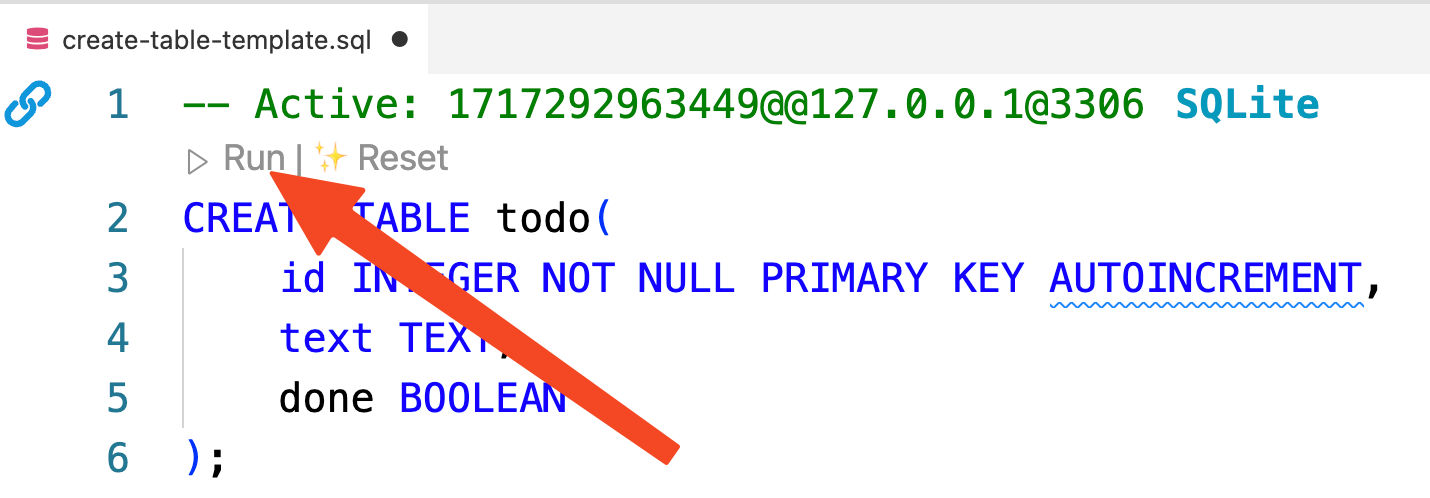
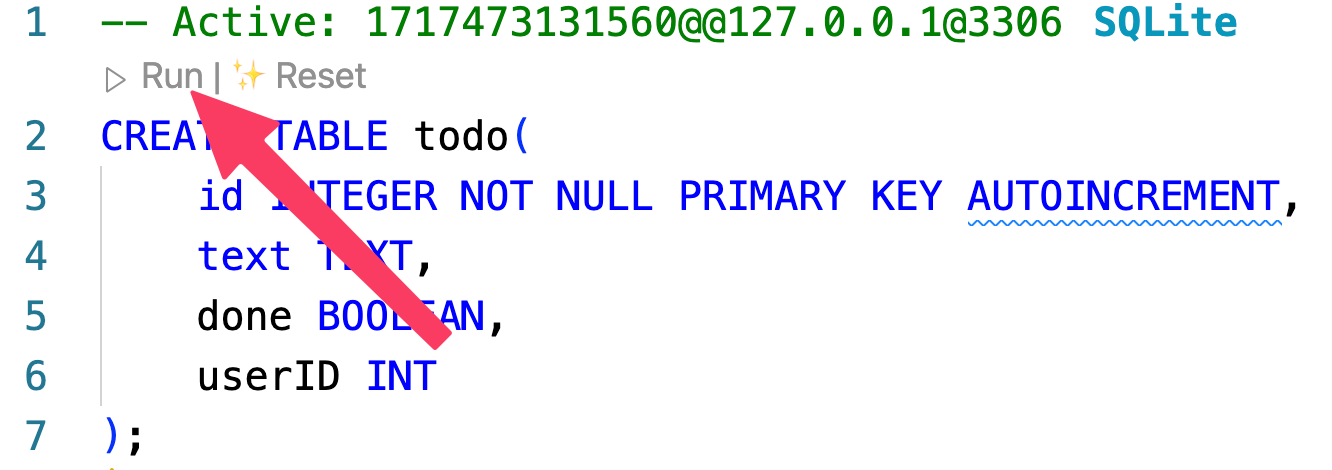
todo by user

diff --git a/WebDev/_shared/Projects/ANH/todoList.md b/WebDev/_shared/Projects/ANH/todoList.md
@@ -35,7 +35,8 @@ Update the SQL commands to specify the fields to create in the `todo` table.
 CREATE TABLE todo(
 	id INTEGER NOT NULL PRIMARY KEY AUTOINCREMENT,
 	text TEXT,
-	done BOOLEAN
+	done BOOLEAN,
+	userID INT
 );
 ```
 
@@ -157,7 +158,7 @@ Create a new route by copying this code into `app.py.`
 ```python
 @app.route('/todo', methods=["POST", "GET"])
 def view_todo():
-    all_todo = db.session.query(todo).all()
+	all_todo = todo.query.filter_by(userID=current_user.id).all()
     if request.method == "POST":
         new_todo = todo(text=request.form['text'])
         new_todo.done = False
@@ -175,7 +176,7 @@ def view_todo():
 | 47                                                                                                              | Creates the new route, called /todo and also adds the extra functionality of POST and GET methods. This means that this route will send data from the server to the browser (GET) and also accept data being sent back from the browser to the server (POST). POST is the common method to submit form data back to the server. |
 | You can read more [https://pythonbasics.org/flask-http-methods/](https://pythonbasics.org/flask-http-methods/). |                                                                                                                                                                                                                                                                                                                                 |
 | 48                                                                                                              | Defines the function name                                                                                                                                                                                                                                                                                                       |
-| 49                                                                                                              | Queries the database and retrieves the whole todo table. The results are stored into the all_todo variable.                                                                                                                                                                                                                     |
+| 49                                                                                                              | Queries the database and retrieves the records in the `todo` table which match the current users `userid`. The results are stored into the all_todo variable.                                                                                                                                                                   |
 | 51                                                                                                              | Checks if the Create todo form in `rowTwoColOneContent` (or sidebar) is attempting to submit data back to the server (POST).                                                                                                                                                                                                    |
 | 51                                                                                                              | Creates a new variable - new_todo by collecting the text entered in the form.                                                                                                                                                                                                                                                   |
 | 52                                                                                                              | Sets the done field to False as default.                                                                                                                                                                                                                                                                                        |
